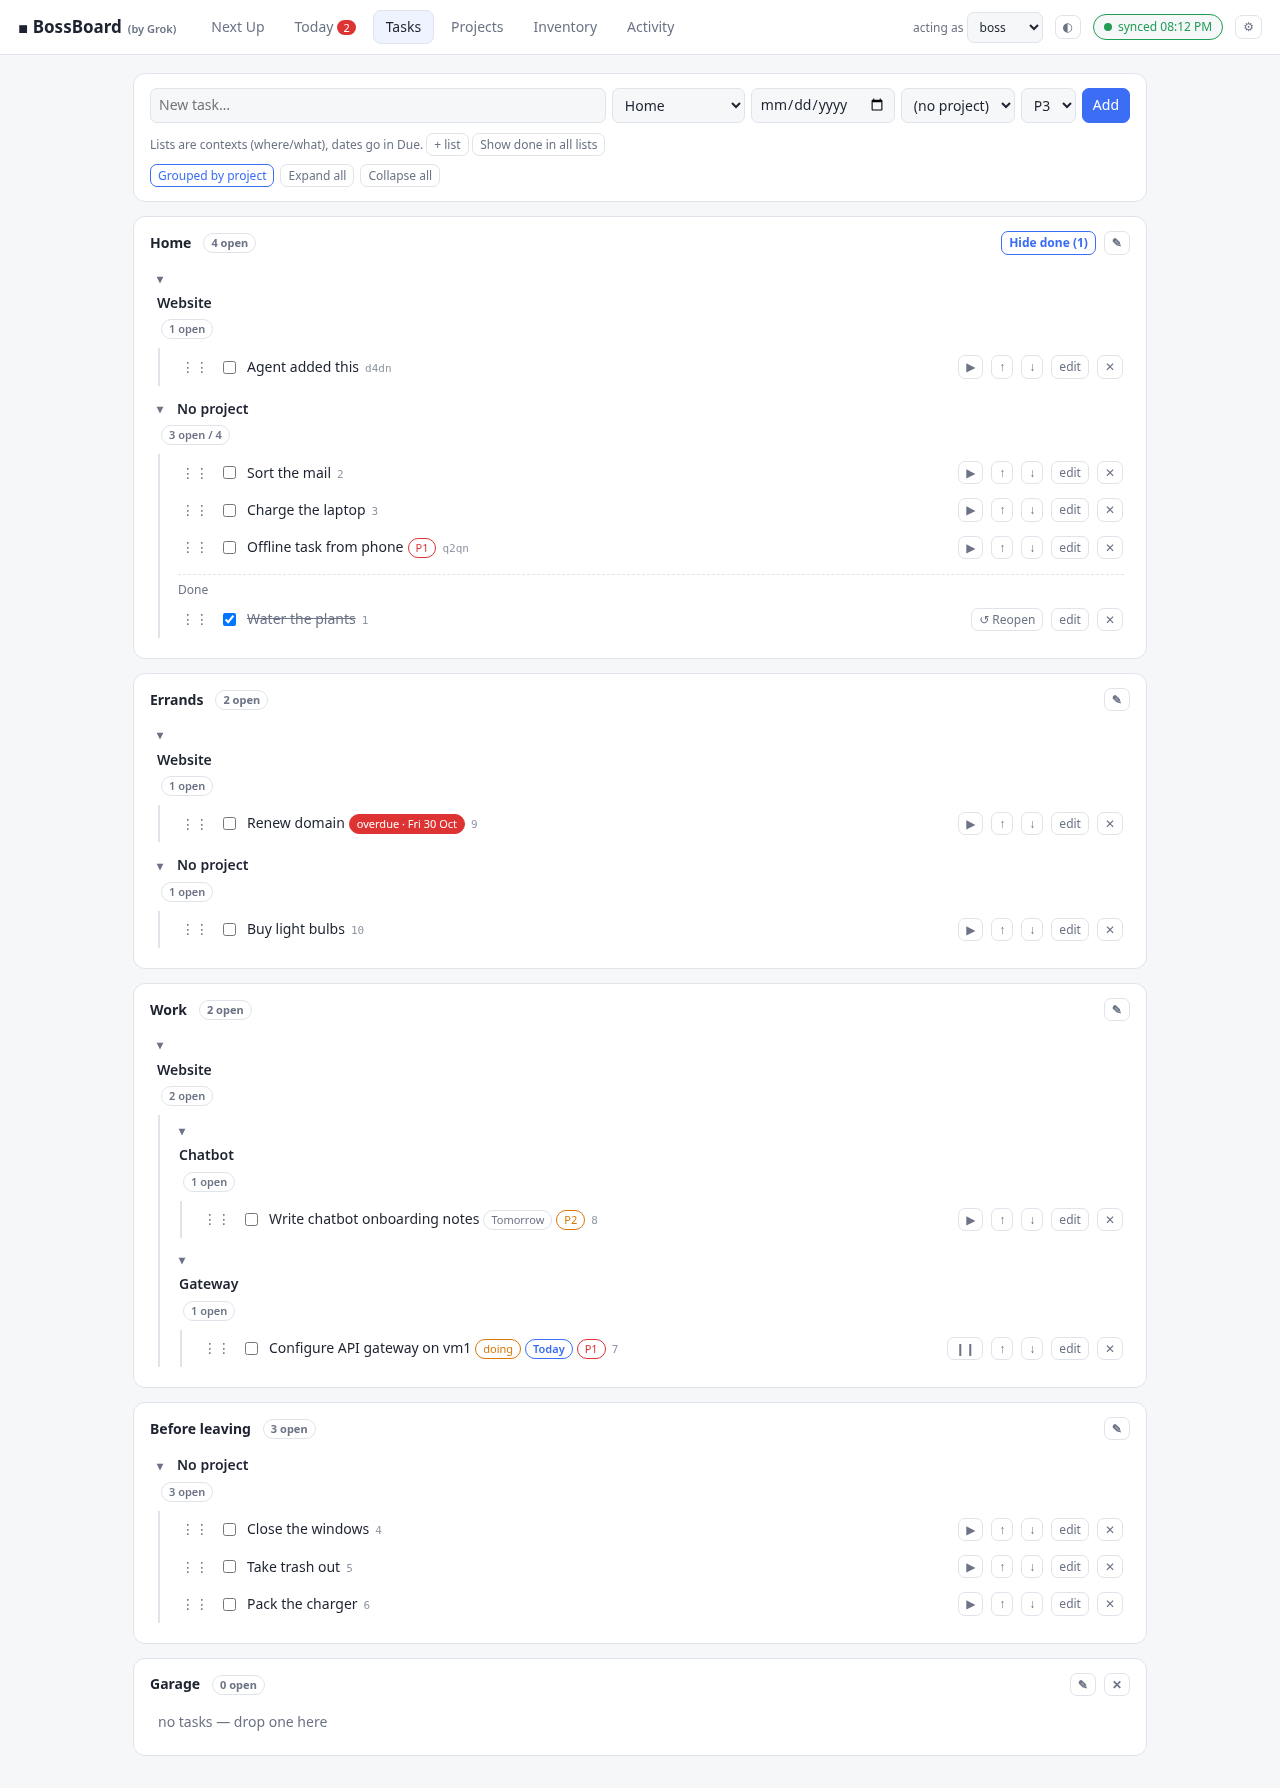
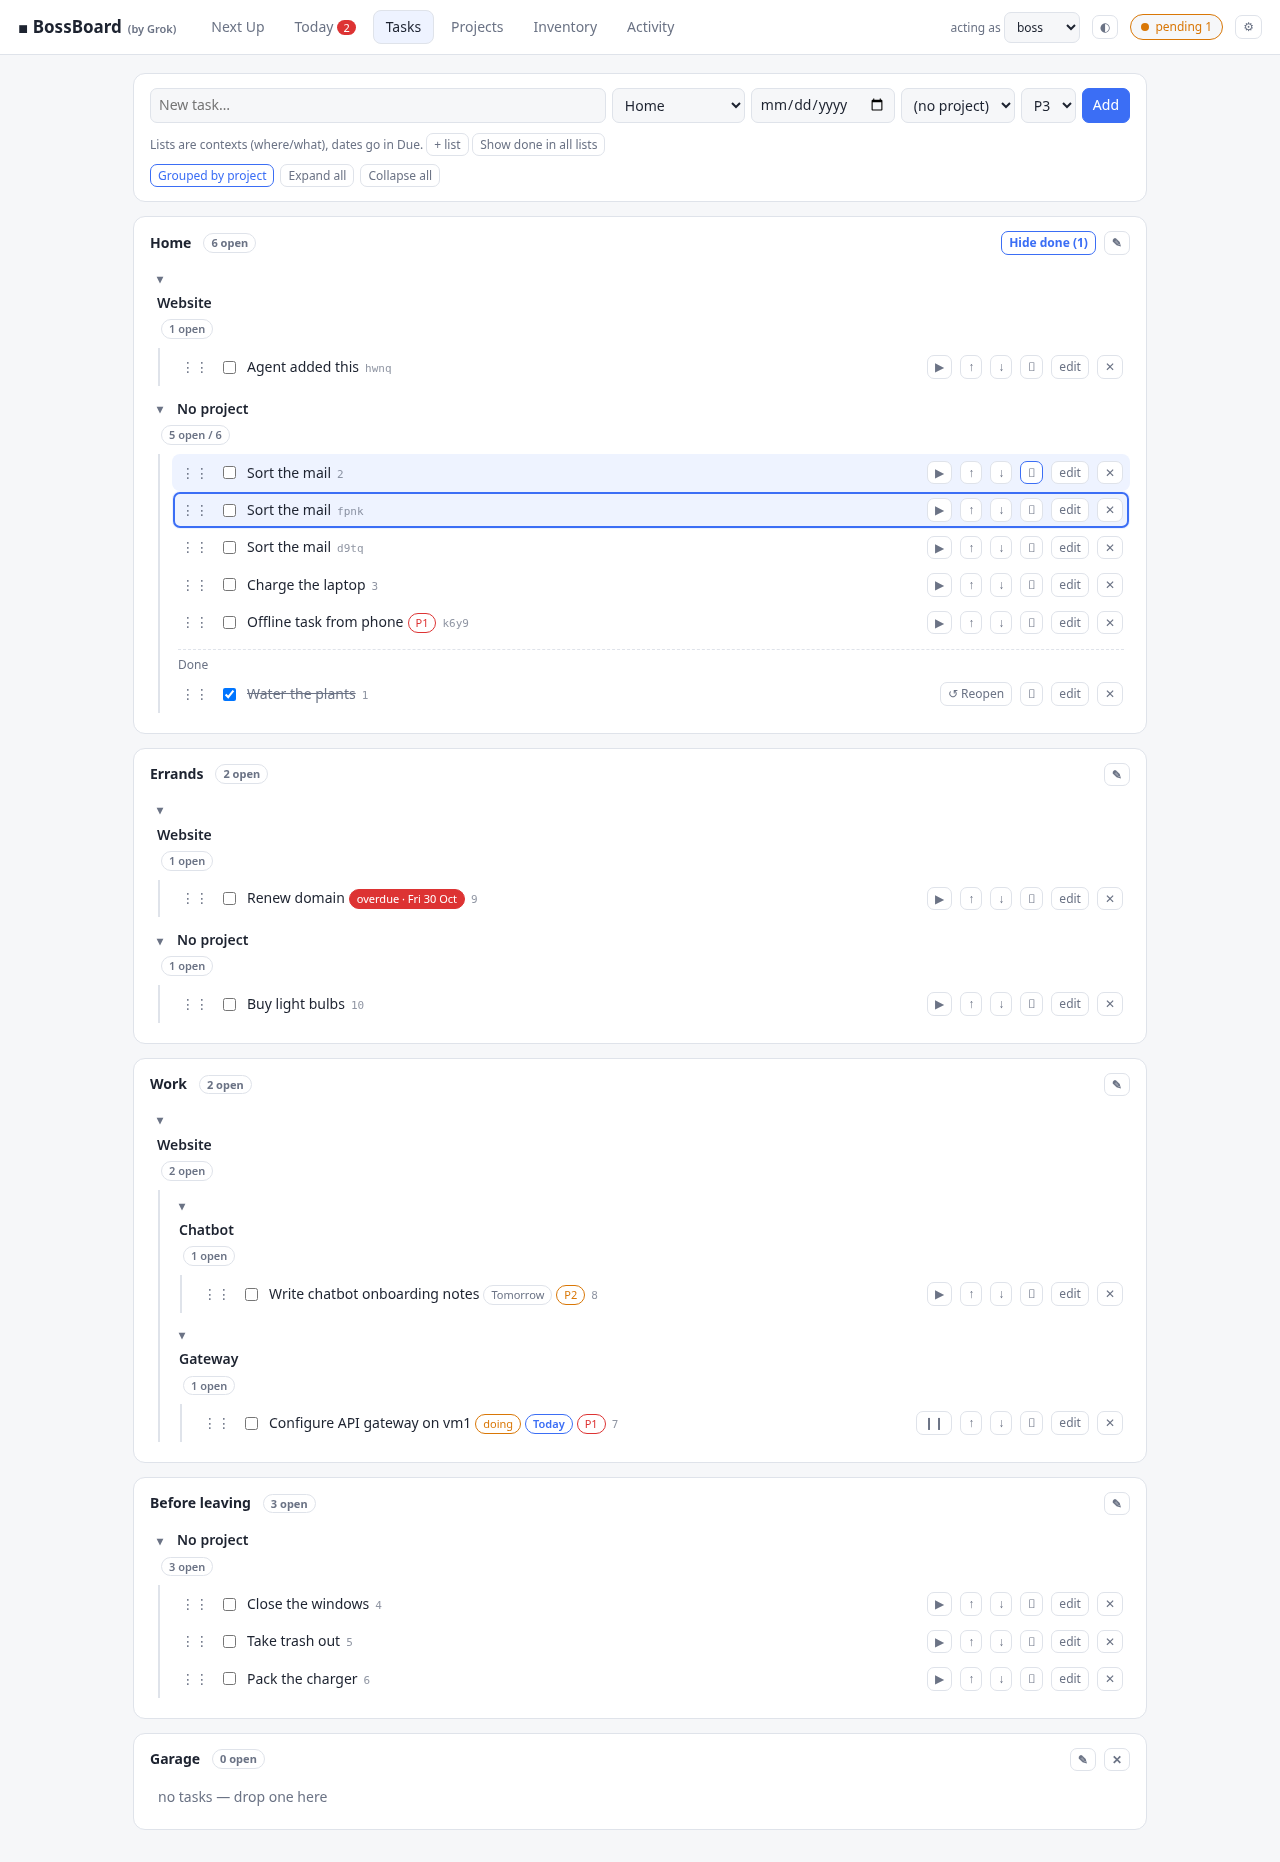
v3.1.1: Duplicate button on tasks, plus bb.py dup

diff --git a/app/js/app.js b/app/js/app.js
@@ -4,7 +4,7 @@ import { GitHub, safeApiBase } from "./github.js";
 import { IDBStore } from "./store.js";
 import { live, listsSorted, tasksSorted, nextUp, todayView, nameOf, handles, dayStr, BBError } from "./core.js";
 
-const VERSION = "3.1.0";
+const VERSION = "3.1.1";
 const DEFAULTS = { owner: "gitcaz", repo: "bossboard-data", branch: "main" };  // empty fields fall back to these
 const $ = s => document.querySelector(s);
 const LS = {
@@ -13,7 +13,7 @@ const LS = {
 };
 const TABS = ["next", "today", "tasks", "projects", "inventory", "activity", "settings"];
 let tab = TABS.includes(location.hash.slice(1)) ? location.hash.slice(1) : (LS.get("tab") || "next");
-let showDone = JSON.parse(LS.get("showDone") || "{}"), dragId = null, engine = null, S = null;
+let showDone = JSON.parse(LS.get("showDone") || "{}"), dragId = null, engine = null, S = null, flashId = null, dupFlash = {};
 let groupTasks = LS.get("groupTasks") !== "0";                 // default ON
 let projMode = LS.get("projMode") === "list" ? "list" : "tree";
 let collapsed = {};
@@ -148,12 +148,13 @@ function rToday() {
 }
 function taskRow(t, o) {
   o = o || {}; const done = t.status === "done"; const pn = o.bigProj ? pname(t.project_id) : "";
-  return '<div class="row' + (done ? " done" : "") + '"' + (o.noMove ? "" : ' draggable="true"') + ' data-tid="' + esc(t.id) + '" data-list="' + esc(t.list_id) + '">' +
+  return '<div class="row' + (done ? " done" : "") + (t.id === flashId ? " flash" : "") + '"' + (o.noMove ? "" : ' draggable="true"') + ' data-tid="' + esc(t.id) + '" data-list="' + esc(t.list_id) + '">' +
     (o.noMove ? "" : '<span class="handle" title="drag to reorder / move to another list">&#8942;&#8942;</span>') + '<input type="checkbox" title="' + (done ? "reopen" : "mark done") + '" data-a="toggle" data-id="' + esc(t.id) + '"' + (done ? " checked" : "") + '>' +
     '<div class="t"><span class="tt">' + esc(t.title) + '</span>' + pill(t, { list: o.list, noProj: o.noProj || !!pn }) + '<span class="hdl">' + esc(S.th[t.id]) + '</span>' + (pn ? '<div class="rowproj">' + esc(pn) + '</div>' : "") + (t.notes ? '<div class="nt">' + esc(t.notes) + '</div>' : "") + '</div>' +
     (done ? '<button class="ic" data-a="reopen" data-id="' + esc(t.id) + '">&#8634; Reopen</button>' :
       (t.status === "todo" ? '<button class="ic" data-a="start" data-id="' + esc(t.id) + '" title="start">&#9654;</button>' : '<button class="ic" data-a="reopen" data-id="' + esc(t.id) + '" title="pause (back to todo)">&#10073;&#10073;</button>') +
       (o.noMove ? "" : '<button class="ic" data-a="up" data-id="' + esc(t.id) + '" title="move up">&#8593;</button><button class="ic" data-a="down" data-id="' + esc(t.id) + '" title="move down">&#8595;</button>')) +
+    '<button class="ic" data-a="dup-task" data-id="' + esc(t.id) + '" title="Duplicate" aria-label="Duplicate">&#10697;</button>' +
     '<button class="ic" data-a="edit-task" data-id="' + esc(t.id) + '">edit</button><button class="ic del" data-a="del-task" data-id="' + esc(t.id) + '">&#10005;</button></div>';
 }
 function listSel(name, sel) {
@@ -406,6 +407,16 @@ document.addEventListener("click", async e => {
   const t = id && engine.db.get("task", id);
   if (a === "done" || a === "start" || a === "reopen") return act(o => o.setStatus(id, { done: "done", start: "doing", reopen: "todo" }[a]));
   if (a === "up" || a === "down") return act(o => o.move(id, a));
+  if (a === "dup-task") {
+    return act(o => o.duplicate(id)).then(rec => {
+      if (!rec) return;
+      flashId = rec.id; render();
+      const el = document.querySelector('.row[data-tid="' + CSS.escape(rec.id) + '"]');
+      if (el) el.scrollIntoView({ block: "nearest" });
+      clearTimeout(dupFlash.t);
+      dupFlash.t = setTimeout(() => { if (flashId === rec.id) { flashId = null; const r = document.querySelector('.row[data-tid="' + CSS.escape(rec.id) + '"]'); if (r) r.classList.remove("flash"); } }, 1600);
+    });
+  }
   if (a === "edit-task") return openDlg("task", t);
   if (a === "del-task") { if (confirm("Delete task '" + (t ? t.title : id) + "'?")) act(o => o.remove("task", id)); return; }
   if (a === "toggle-group-tasks") { groupTasks = !groupTasks; LS.set("groupTasks", groupTasks ? "1" : "0"); return render(); }

diff --git a/app/js/core.js b/app/js/core.js
@@ -373,6 +373,18 @@ export class Ops {
     const patch = { sort_order: so }; if (listId !== t.list_id) patch.list_id = listId;
     return this.update("task", id, patch, ts);
   }
+  /** New open task copying content fields; placed immediately after the original. Fresh id and timestamps; no history. */
+  duplicate(id, ts) {
+    ts = ts || nowTs();
+    const t = this.db.get("task", id); if (!t || t.deleted) throw new BBError("task not found", 404);
+    const sibs = live(this.db, "task").filter(x => x.list_id === t.list_id).sort((a, b) => (a.sort_order - b.sort_order) || (a.id < b.id ? -1 : 1));
+    const i = sibs.findIndex(x => x.id === id);
+    const lo = t.sort_order || 0, hi = (i >= 0 && i + 1 < sibs.length) ? sibs[i + 1].sort_order : null;
+    const so = (hi == null) ? lo + 10 : (hi - lo > 1e-6 ? (lo + hi) / 2 : null);
+    const rec = this.create("task", { title: t.title, list_id: t.list_id, project_id: t.project_id ?? null, notes: t.notes ?? null, priority: t.priority, due: t.due ?? null, status: "todo", sort_order: so == null ? undefined : so }, ts);
+    if (so == null) { const before = i + 1 < sibs.length ? sibs[i + 1].id : null; return this.place(rec.id, t.list_id, before, ts); }
+    return rec;
+  }
   move(id, dir, ts) {
     const t = this.db.get("task", id); if (!t || t.deleted) throw new BBError("task not found", 404);
     const sibs = live(this.db, "task").filter(x => x.list_id === t.list_id).sort((a, b) => a.sort_order - b.sort_order || (a.id < b.id ? -1 : 1));

diff --git a/app/sw.js b/app/sw.js
@@ -1,5 +1,5 @@
 // Service worker: caches the app shell for full offline use. GitHub API traffic is never cached here.
-const CACHE = "bossboard-v3-3.1.0";
+const CACHE = "bossboard-v3-3.1.1";
 const SHELL = ["./", "index.html", "css/style.css", "js/app.js", "js/guard.js", "js/core.js", "js/sync.js", "js/github.js", "js/store.js",
   "manifest.json", "icons/icon.svg", "icons/icon-192.png", "icons/icon-512.png", "icons/icon-maskable-512.png", "icons/apple-touch-icon.png"];
 self.addEventListener("install", e => { e.waitUntil(caches.open(CACHE).then(c => c.addAll(SHELL)).then(() => self.skipWaiting())); });

diff --git a/app/css/style.css b/app/css/style.css
@@ -110,3 +110,7 @@ header h1 .by{font-size:11px;font-weight:600;color:var(--mut)}
 .ptree .card{margin-bottom:8px}
 .pgroup .card{margin-bottom:8px}
 .gheadrow{display:flex;align-items:flex-start;gap:4px}.gheadrow .ghead{flex:1;min-width:0;width:auto}.gheadrow > button.ic{flex:0 0 auto;margin-top:4px}
+
+.row.flash{animation:bbflash 1.4s ease}
+@keyframes bbflash{0%,25%{background:var(--hl);box-shadow:inset 0 0 0 2px var(--acc)}100%{background:transparent;box-shadow:none}}
+@media (prefers-reduced-motion:reduce){.row.flash{animation:none;background:var(--hl)}}

diff --git a/cli/bb.py b/cli/bb.py
@@ -655,6 +655,24 @@ class Ops:
             patch["list_id"] = list_id
         return self.update("task", iid, patch)
 
+    def duplicate(self, iid):
+        t = self.db.get("task", iid)
+        if not t or t.get("deleted"):
+            raise BBError("task not found", 404)
+        sibs = sorted([x for x in live(self.db, "task") if x.get("list_id") == t.get("list_id")],
+                      key=lambda x: (x.get("sort_order") or 0, x["id"]))
+        i = next((k for k, x in enumerate(sibs) if x["id"] == iid), -1)
+        lo = t.get("sort_order") or 0
+        hi = sibs[i + 1]["sort_order"] if i >= 0 and i + 1 < len(sibs) else None
+        so = (lo + 10) if hi is None else ((lo + hi) / 2 if (hi - lo) > 1e-6 else None)
+        rec = self.create("task", {"title": t["title"], "list_id": t.get("list_id"), "project_id": t.get("project_id"),
+                                   "notes": t.get("notes"), "priority": t.get("priority"), "due": t.get("due"),
+                                   "status": "todo", **({"sort_order": so} if so is not None else {})})
+        if so is None:
+            before = sibs[i + 1]["id"] if i + 1 < len(sibs) else None
+            return self.place(rec["id"], t.get("list_id"), before)
+        return rec
+
     def move(self, iid, direction):
         t = self.db.get("task", iid)
         sibs = sorted([x for x in live(self.db, "task") if x.get("list_id") == t.get("list_id")],
@@ -1264,6 +1282,8 @@ def cmd_write(a, be):
             return [ops.remove("task", _ref(snap, "task", i)["id"]) for i in a.ids]
         if c == "move-task":
             return [ops.move(_ref(snap, "task", a.id)["id"], a.direction)]
+        if c == "duplicate-task":
+            return [ops.duplicate(_ref(snap, "task", a.id)["id"])]
         if c == "add-list":
             return [ops.ensure_list(a.name)]
         if c == "rename-list":
@@ -1437,10 +1457,10 @@ def cmd_read(a, be):
 
 
 # ---------------------------------------------------------------- argparse
-WRITE_CMDS = {"add-task", "update-task", "done", "start", "reopen", "delete-task", "move-task", "add-list", "rename-list",
+WRITE_CMDS = {"add-task", "update-task", "done", "start", "reopen", "delete-task", "move-task", "duplicate-task", "add-list", "rename-list",
               "delete-list", "add-project", "update-project", "delete-project", "add-resource", "update-resource",
               "delete-resource"}
-ALIASES = {"add": "add-task", "edit": "update-task", "ls": "list", "inventory": "resources"}
+ALIASES = {"add": "add-task", "edit": "update-task", "dup": "duplicate-task", "ls": "list", "inventory": "resources"}
 
 
 def build_parser():
@@ -1482,6 +1502,8 @@ def build_parser():
     p = sub("move-task", "reorder a task within its list")
     p.add_argument("id")
     p.add_argument("direction", choices=["up", "down", "top", "bottom"])
+    p = sub("duplicate-task", "duplicate a task (new open copy, placed after the original)", ["dup"])
+    p.add_argument("id", help="task handle or id")
     p = sub("list", "list tasks (open only by default)", ["ls"])
     p.add_argument("--list", "-l")
     p.add_argument("--project", "-p")

diff --git a/data-template/bb.py b/data-template/bb.py
@@ -655,6 +655,24 @@ class Ops:
             patch["list_id"] = list_id
         return self.update("task", iid, patch)
 
+    def duplicate(self, iid):
+        t = self.db.get("task", iid)
+        if not t or t.get("deleted"):
+            raise BBError("task not found", 404)
+        sibs = sorted([x for x in live(self.db, "task") if x.get("list_id") == t.get("list_id")],
+                      key=lambda x: (x.get("sort_order") or 0, x["id"]))
+        i = next((k for k, x in enumerate(sibs) if x["id"] == iid), -1)
+        lo = t.get("sort_order") or 0
+        hi = sibs[i + 1]["sort_order"] if i >= 0 and i + 1 < len(sibs) else None
+        so = (lo + 10) if hi is None else ((lo + hi) / 2 if (hi - lo) > 1e-6 else None)
+        rec = self.create("task", {"title": t["title"], "list_id": t.get("list_id"), "project_id": t.get("project_id"),
+                                   "notes": t.get("notes"), "priority": t.get("priority"), "due": t.get("due"),
+                                   "status": "todo", **({"sort_order": so} if so is not None else {})})
+        if so is None:
+            before = sibs[i + 1]["id"] if i + 1 < len(sibs) else None
+            return self.place(rec["id"], t.get("list_id"), before)
+        return rec
+
     def move(self, iid, direction):
         t = self.db.get("task", iid)
         sibs = sorted([x for x in live(self.db, "task") if x.get("list_id") == t.get("list_id")],
@@ -1264,6 +1282,8 @@ def cmd_write(a, be):
             return [ops.remove("task", _ref(snap, "task", i)["id"]) for i in a.ids]
         if c == "move-task":
             return [ops.move(_ref(snap, "task", a.id)["id"], a.direction)]
+        if c == "duplicate-task":
+            return [ops.duplicate(_ref(snap, "task", a.id)["id"])]
         if c == "add-list":
             return [ops.ensure_list(a.name)]
         if c == "rename-list":
@@ -1437,10 +1457,10 @@ def cmd_read(a, be):
 
 
 # ---------------------------------------------------------------- argparse
-WRITE_CMDS = {"add-task", "update-task", "done", "start", "reopen", "delete-task", "move-task", "add-list", "rename-list",
+WRITE_CMDS = {"add-task", "update-task", "done", "start", "reopen", "delete-task", "move-task", "duplicate-task", "add-list", "rename-list",
               "delete-list", "add-project", "update-project", "delete-project", "add-resource", "update-resource",
               "delete-resource"}
-ALIASES = {"add": "add-task", "edit": "update-task", "ls": "list", "inventory": "resources"}
+ALIASES = {"add": "add-task", "edit": "update-task", "dup": "duplicate-task", "ls": "list", "inventory": "resources"}
 
 
 def build_parser():
@@ -1482,6 +1502,8 @@ def build_parser():
     p = sub("move-task", "reorder a task within its list")
     p.add_argument("id")
     p.add_argument("direction", choices=["up", "down", "top", "bottom"])
+    p = sub("duplicate-task", "duplicate a task (new open copy, placed after the original)", ["dup"])
+    p.add_argument("id", help="task handle or id")
     p = sub("list", "list tasks (open only by default)", ["ls"])
     p.add_argument("--list", "-l")
     p.add_argument("--project", "-p")

diff --git a/tests/test_cli.py b/tests/test_cli.py
@@ -74,6 +74,13 @@ class GitBackendTests(unittest.TestCase):
         self.bb1("move-task", t3["handle"], "top", "--by", "boss")
         home = [x["id"] for x in J(self.bb1("list", "-l", "Home", "--all", "--json"))]
         self.assertEqual(home[0], t3["id"])
+        cur = J(self.bb1("show", "task", t["handle"], "--json"))
+        dup = J(self.bb1("dup", t["handle"], "--by", "codex", "--json"))
+        self.assertEqual((dup["title"], dup["status"], dup["list"]), (cur["title"], "todo", cur["list"]))
+        self.assertNotEqual(dup["id"], t["id"])
+        work = [x["id"] for x in J(self.bb1("list", "-l", "Work", "--json"))]
+        self.assertEqual(work[work.index(t["id"]) + 1], dup["id"])
+        self.bb1("delete-task", dup["handle"], "--by", "boss")
         bad = self.bb1("add-resource", "Leak", "-n", "sk-abcdefghijklmnopqrstuvwxyz123456", "--by", "boss", check=False)
         self.assertEqual(bad.returncode, 1)
         self.assertIn("secret", bad.stderr)

diff --git a/data-template/AGENTS.md b/data-template/AGENTS.md
@@ -41,6 +41,7 @@ bb.py lists | add-list NAME | rename-list OLD NEW | delete-list NAME
 bb.py add-task "Title" [-l Home] [-p Website] [-P 1..5] [-d tomorrow|2026-11-05|fri|+3d] [-n notes] --by codex
 bb.py update-task 12 [--title ..] [-l ..] [-p ..|none] [-P ..] [-d ..|none] [-n ..] [--status ..] --by codex   (alias: edit)
 bb.py start 12 | done 12 13 | reopen 12 | delete-task 12 | move-task 12 up|down|top|bottom   --by codex
+bb.py dup 12 --by codex          # new open copy of the task, placed after the original (alias: duplicate-task)
 bb.py show task|project|resource REF [--json]
 bb.py projects [--json] | add-project NAME [-d ..] [-o owner] [-s status] [-n ..] [--parent NAME] --by codex
 bb.py update-project REF [...] --by codex | delete-project REF --by codex
